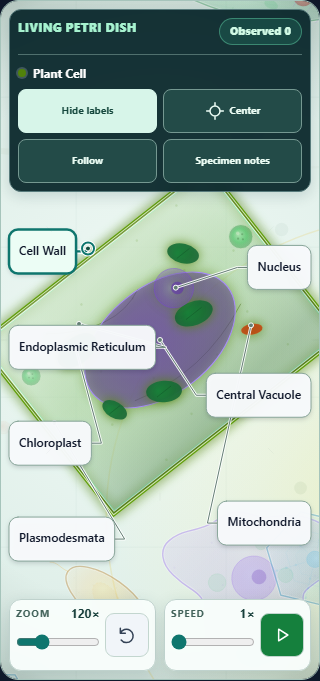
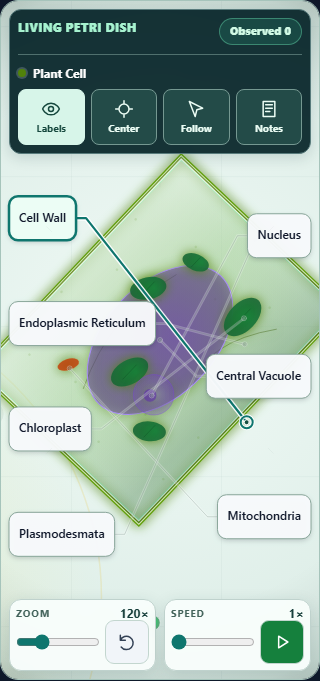
Clarify active organelle connector paths

diff --git a/desktop/web-app/public/stem_lab/stem_tool_cell.js b/desktop/web-app/public/stem_lab/stem_tool_cell.js
@@ -20654,8 +20654,12 @@ var d = labToolData.cell || {};
               if (focusSelectedLabel && !playAsOrg && canvasEl.getAttribute('data-cell-view-mode') === 'observe' && labelBoxes.some(function(box) { return box.selected; })) {
                 labelBoxes = labelBoxes.filter(function(box) { return box.selected; });
               }
+              var hasEmphasizedLabel = labelBoxes.some(function(box) { return box.emphasized; });
               // Draw emphasized leaders last, underneath the pills, to make their paths easy to trace.
               labelBoxes.slice().sort(function(a, b) { return (Number(a.hovered) + 2 * Number(a.selected)) - (Number(b.hovered) + 2 * Number(b.selected)); }).forEach(function(box) {
+                // Quiet competing paths without fading the labels or moving their hit targets.
+                cctx.save();
+                if (hasEmphasizedLabel && !box.emphasized) cctx.globalAlpha = 0.28;
                 var ex = box.side === 'left' ? box.x + box.w : box.x;
                 var ey = box.y + box.h / 2;
                 cctx.beginPath(); cctx.moveTo(box.sx, box.sy);
@@ -20671,6 +20675,7 @@ var d = labToolData.cell || {};
                 cctx.beginPath(); cctx.arc(box.sx, box.sy, 2.5 * dpr, 0, Math.PI * 2);
                 cctx.fillStyle = box.emphasized ? '#164e40' : '#647e74'; cctx.fill();
                 cctx.strokeStyle = '#fff'; cctx.lineWidth = dpr; cctx.stroke();
+                cctx.restore();
               });
               labelBoxes.forEach(function(box) {
                 var pillX = box.x, pillY = box.y, pillW = box.w, pillH = box.h;

diff --git a/stem_lab/stem_tool_cell.js b/stem_lab/stem_tool_cell.js
@@ -20654,8 +20654,12 @@ var d = labToolData.cell || {};
               if (focusSelectedLabel && !playAsOrg && canvasEl.getAttribute('data-cell-view-mode') === 'observe' && labelBoxes.some(function(box) { return box.selected; })) {
                 labelBoxes = labelBoxes.filter(function(box) { return box.selected; });
               }
+              var hasEmphasizedLabel = labelBoxes.some(function(box) { return box.emphasized; });
               // Draw emphasized leaders last, underneath the pills, to make their paths easy to trace.
               labelBoxes.slice().sort(function(a, b) { return (Number(a.hovered) + 2 * Number(a.selected)) - (Number(b.hovered) + 2 * Number(b.selected)); }).forEach(function(box) {
+                // Quiet competing paths without fading the labels or moving their hit targets.
+                cctx.save();
+                if (hasEmphasizedLabel && !box.emphasized) cctx.globalAlpha = 0.28;
                 var ex = box.side === 'left' ? box.x + box.w : box.x;
                 var ey = box.y + box.h / 2;
                 cctx.beginPath(); cctx.moveTo(box.sx, box.sy);
@@ -20671,6 +20675,7 @@ var d = labToolData.cell || {};
                 cctx.beginPath(); cctx.arc(box.sx, box.sy, 2.5 * dpr, 0, Math.PI * 2);
                 cctx.fillStyle = box.emphasized ? '#164e40' : '#647e74'; cctx.fill();
                 cctx.strokeStyle = '#fff'; cctx.lineWidth = dpr; cctx.stroke();
+                cctx.restore();
               });
               labelBoxes.forEach(function(box) {
                 var pillX = box.x, pillY = box.y, pillW = box.w, pillH = box.h;

diff --git a/reports/cell-structure-explorer/README.md b/reports/cell-structure-explorer/README.md
@@ -71,3 +71,11 @@ At microscope widths up to 640px, each utility card now gives its heading and va
 The toolbar browser checks now exercise maximum zoom/speed through the keyboard, measure heading separation and button clearance, confirm canvas zoom synchronization, and exercise reset and play/pause. Existing touch-label checks cover label access around the overlays.
 
 All eight toolbar and touch-label browser scenarios passed at 280/320/390/1200px. Phone and desktop screenshots reviewed. Source syntax, scoped whitespace and four-way mirror parity passed. No push or deployment.
+
+## Calmer organelle connectors — 2026-09-19
+
+Hovering or selecting a structure now softens competing connector paths and their anchor dots. Active paths retain their strong outline and endpoint ring, while all label text and pills stay fully readable in the same stable positions. Clearing hover/selection restores the normal connector treatment. This also works with the existing selected-label study view and play labels; it introduces no animation or new control.
+
+Existing focus checks cover desktop/phone hover, selection, dismissal, specimen changes and play interactions. The moving-specimen checks verify stable label rows across 120 frames at both sizes. Updated visual evidence is in reports/cell-label-focus.
+
+All five existing focus and moving-label browser scenarios passed. Reviewed phone selection and desktop hover screenshots. Source syntax, scoped whitespace and four-way mirror parity passed. No push or deployment.
